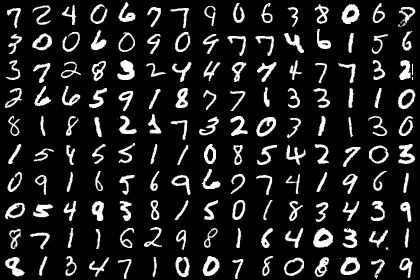
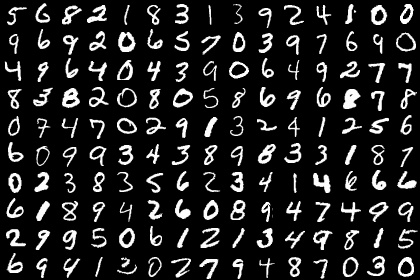
add fun Handwritten_Digit_Recognition

diff --git a/pages/Handwritten_Digit_Recognition.py b/pages/Handwritten_Digit_Recognition.py
@@ -1,6 +1,81 @@
 import streamlit as st
+from PIL import ImageTk, Image
+import tensorflow as tf
+import numpy as np
+from tensorflow import keras
+from tensorflow.keras.models import model_from_json 
+from tensorflow.keras.optimizers import SGD 
+import cv2
+
 
 st.set_page_config(
     page_title="Nhận dạng chữ số viết tay",
     page_icon="✍"
 )
+
+
+st.title('Nhận dạng chữ số viết tay')
+
+result_image = np.zeros((224, 224, 3), dtype=np.uint8)
+
+image_element = st.image(result_image, channels='RGB')
+
+# Load model
+model_architecture = "./src/Handwritten_Digit_Recognition/digit_config.json"
+model_weights = "./src/Handwritten_Digit_Recognition/digit_weight.h5"
+model = model_from_json(open(model_architecture).read())
+model.load_weights(model_weights) 
+
+optim = SGD()
+model.compile(loss="categorical_crossentropy", optimizer=optim, metrics=["accuracy"]) 
+
+mnist = keras.datasets.mnist
+(X_train, Y_train), (X_test, Y_test) = mnist.load_data()
+X_test_image = X_test
+
+RESHAPED = 784
+
+X_test = X_test.reshape(10000, RESHAPED)
+X_test = X_test.astype('float32')
+
+X_test /= 255
+
+if 'index' not in st.session_state:
+    st.session_state.index = None
+if 'image' not in st.session_state:
+    st.session_state.image = None
+if 's' not in st.session_state:
+    st.session_state.s = ''
+else:
+    st.session_state.s = ''
+left_column, right_column = st.columns(2)
+
+with left_column:
+    if st.button('Tạo ảnh ngẫu nhiên'):
+        st.session_state.index = np.random.randint(0, 9999, 150)
+        digit_random = np.zeros((10*28, 15*28), dtype=np.uint8)
+        for i in range(0, 150):
+            m = i // 15
+            n = i % 15
+            digit_random[m*28:(m+1)*28, n*28:(n+1)*28] = X_test_image[st.session_state.index[i]] 
+        cv2.imwrite('./images/digit_random.jpg', digit_random)
+
+        st.session_state.image = Image.open('./images/digit_random.jpg')
+        image_element.image(st.session_state.image, channels='RGB')
+
+with right_column:
+    if st.button('Nhận dạng'):
+        image_element.image(st.session_state.image, channels='RGB')
+        X_test_sample = np.zeros((150,784), dtype=np.float32)
+        for i in range(0, 150):
+            X_test_sample[i] = X_test[st.session_state.index[i]] 
+
+        prediction = model.predict(X_test_sample)
+        st.session_state.s = ''
+        for i in range(0, 150):
+            ket_qua = np.argmax(prediction[i])
+            st.session_state.s = st.session_state.s + str(ket_qua) + ' '
+            if (i+1) % 15 == 0:
+                st.session_state.s = st.session_state.s + '\n'
+with left_column:
+    st.text(st.session_state.s)
